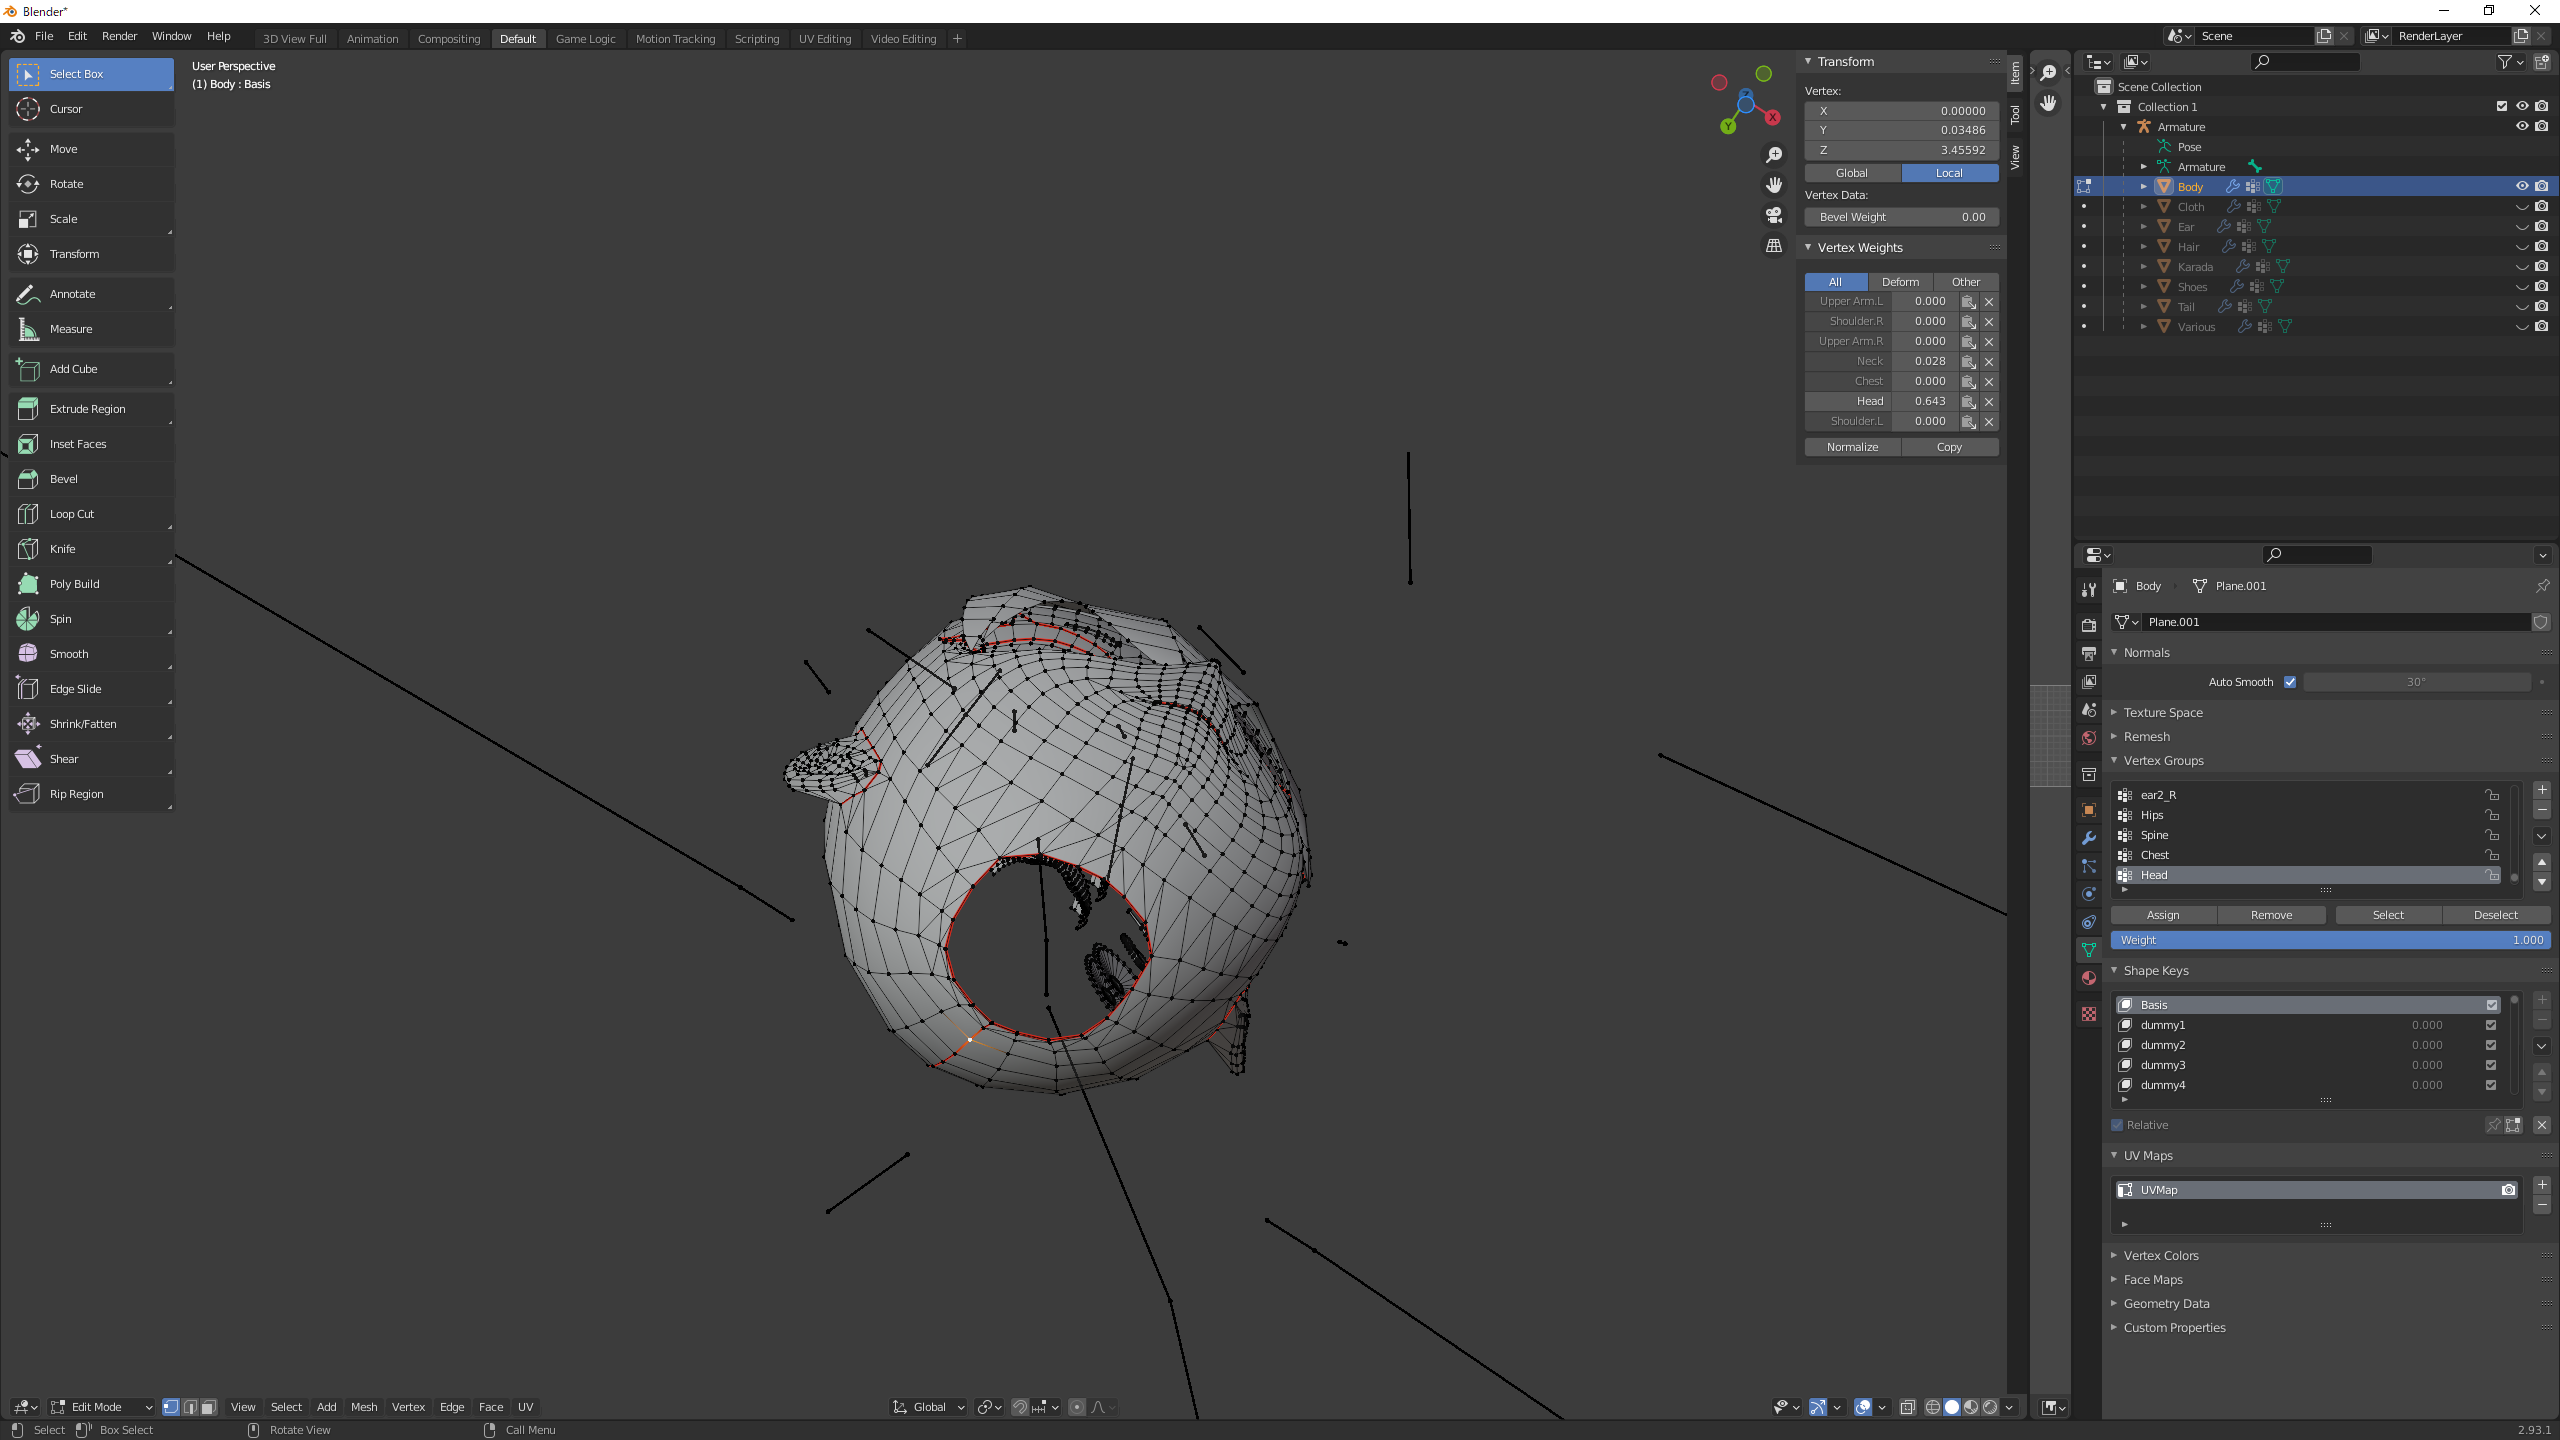
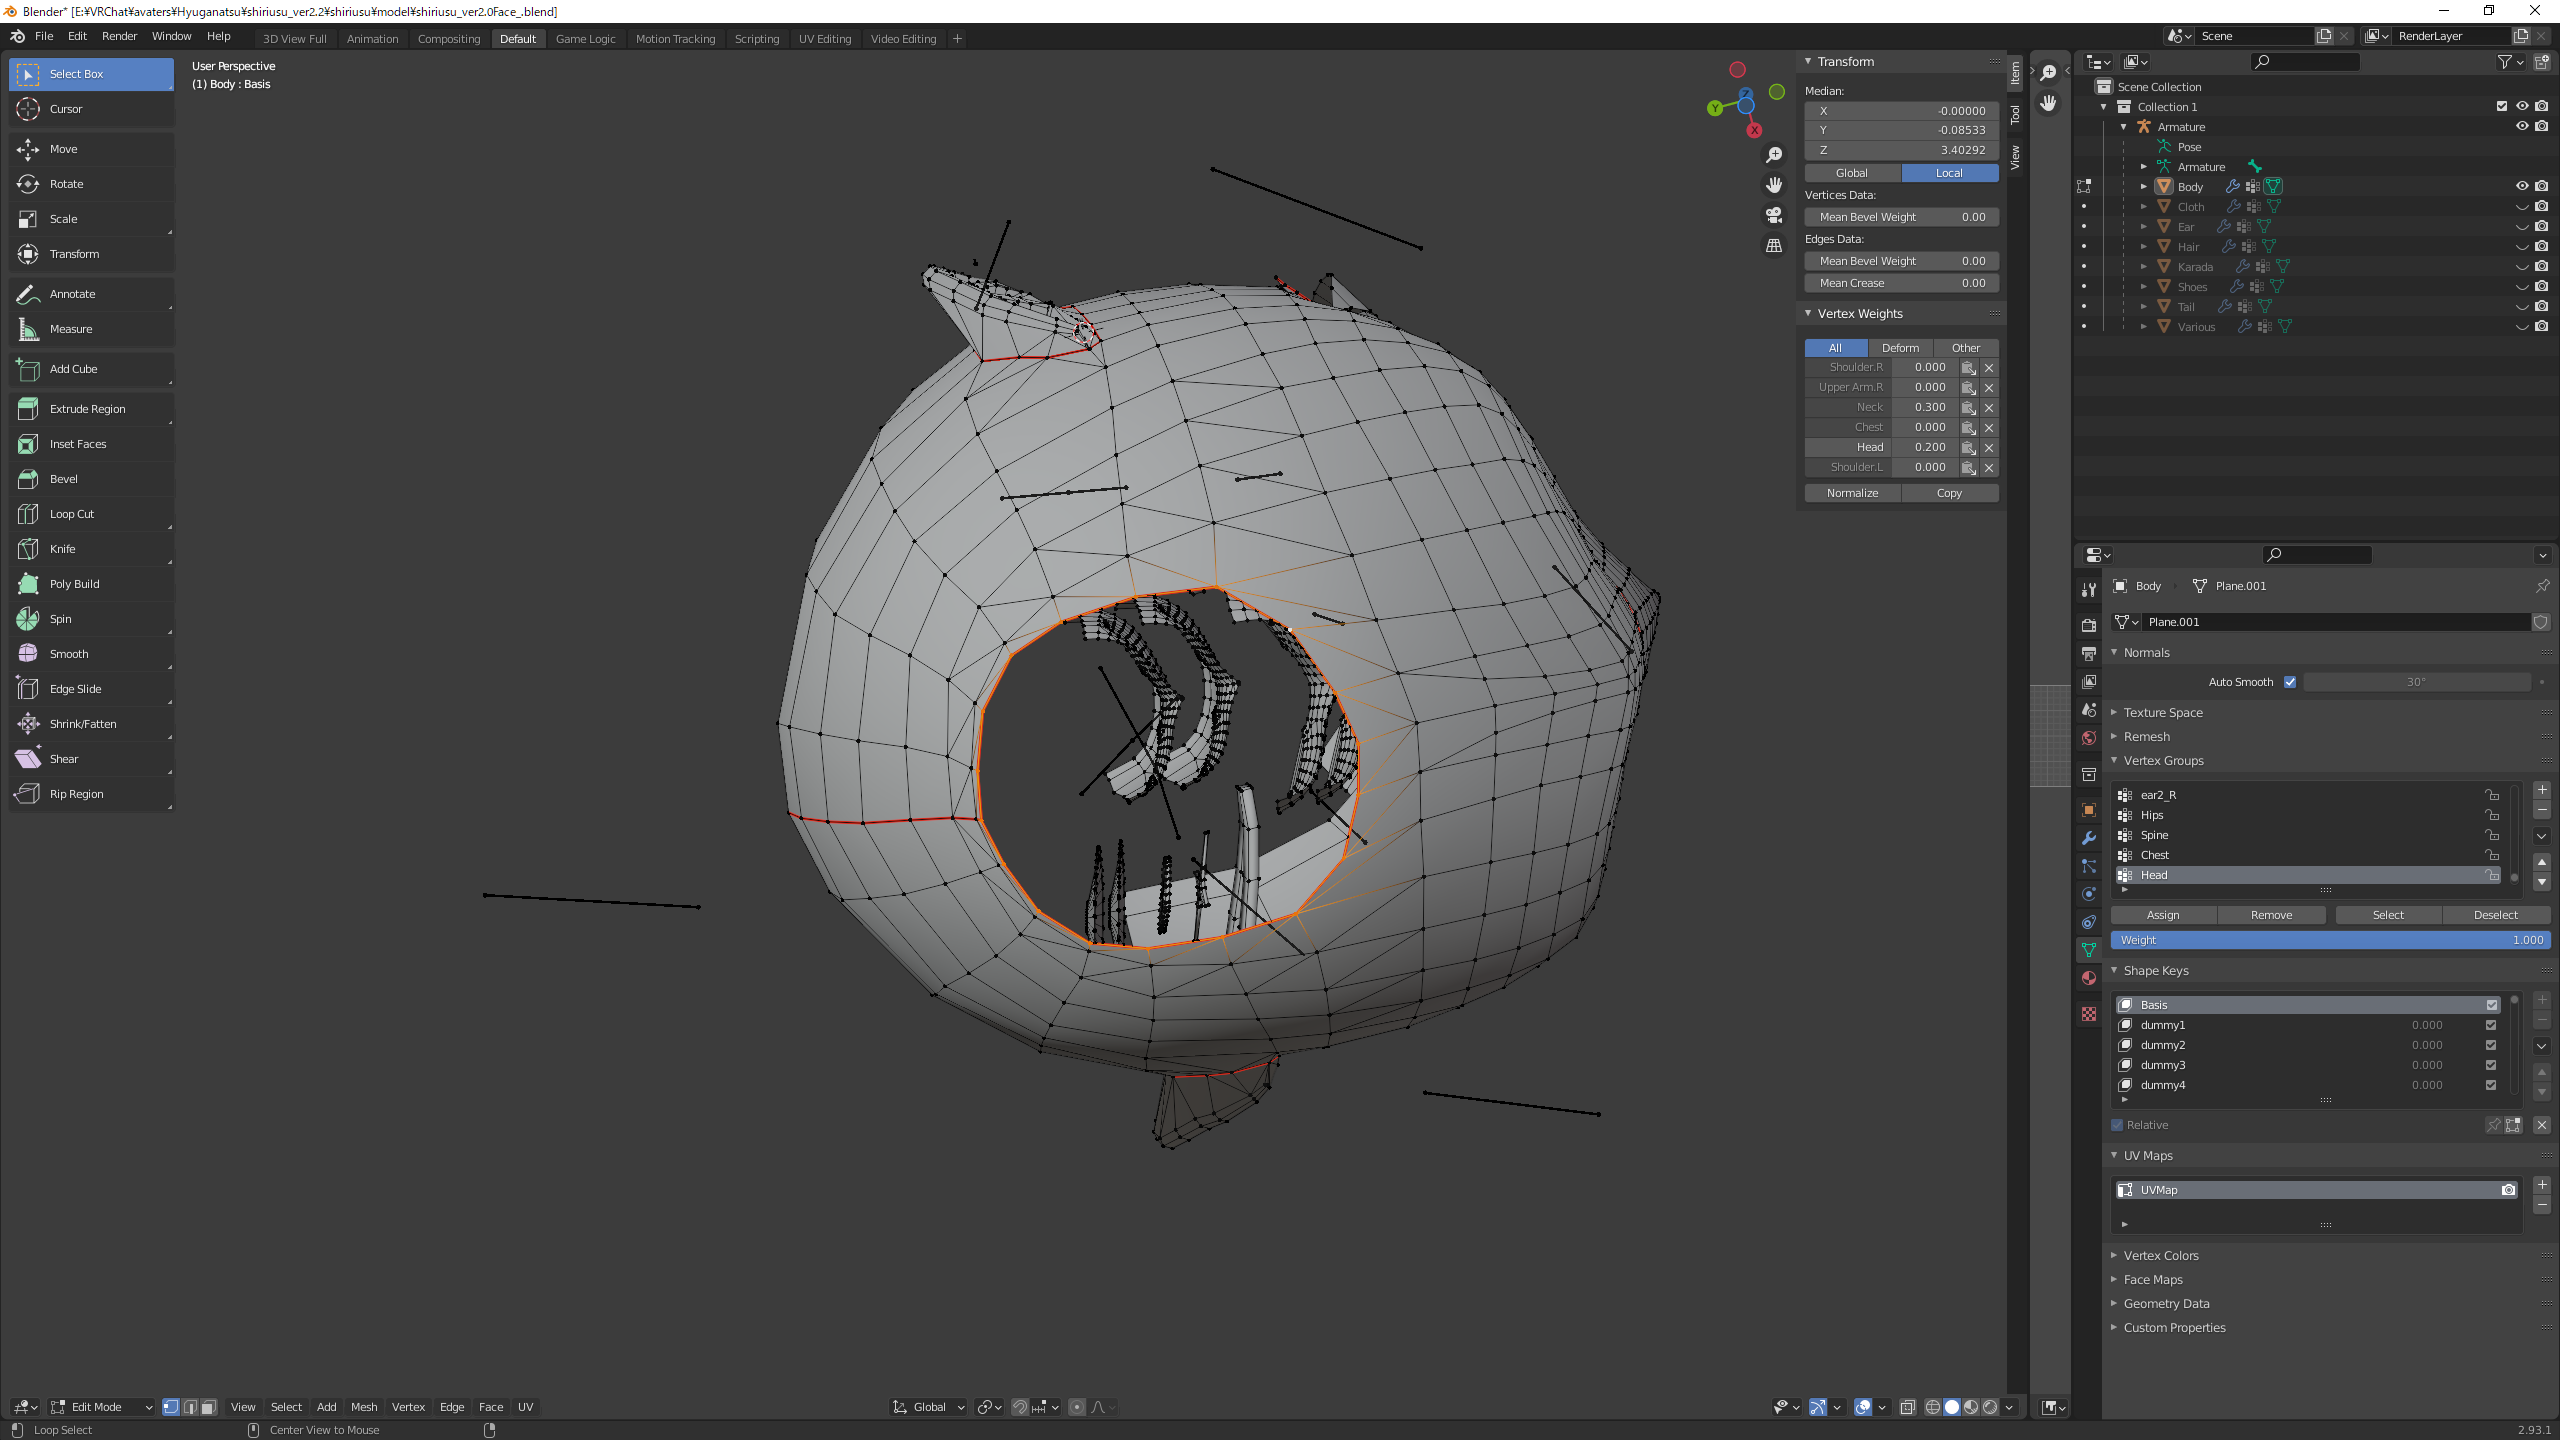
シリウスちゃんに透羽ちゃんの素体を結合する手順のBlenderの説明を修正

diff --git a/Sirius_SueBody/README.md b/Sirius_SueBody/README.md
@@ -2,25 +2,25 @@
 
 ## Blenderでの作業
 
-Blenderを使用してシリウスちゃんの首の付け根の開いた部分を小さくします。作業前が図1-1、作業後が図1-2です。私は手抜きで頂点を移動させただけです。頑張って編集モードで移動してください。図1-3のようにミラーを入れておくと左右一緒に移動させられるので楽です
+Blenderを使用してシリウスちゃんの首の付け根の開いた部分を小さくします。Blenderは2.93.1をデフォルト設定で使用しています。
 
-図1-1 作業前
+Alt + 左クリックでループ選択をします(図1-1)。
+
+図1-1 ループ選択
 
 ![作業前](image/1-1.png)
 
-図1-2 作業後
+Sキーですぼめます。
+
+図1-2 すぼめる
 
 ![作業前](image/1-2.png)
 
-図1-3 ミラー設定
+FileメニューからExport、FBXを選択して出力先を指定します。このときTransformのオプションを図のように変更します(図1-4)。
+
+図1-3 エクスポート
 
 ![作業前](image/1-3.png)
-
-FileメニューからExport、FBXを選択して出力先を指定します。このときTransformのオプションを図のように変更します(図1-4)。もしかしたらApplySettingsはAll Localかもしれない。上手く行かなかったら変えてみてください。
-
-図1-4 エクスポート
-
-![作業前](image/1-4.png)
 
 ## Unityでの作業
 
